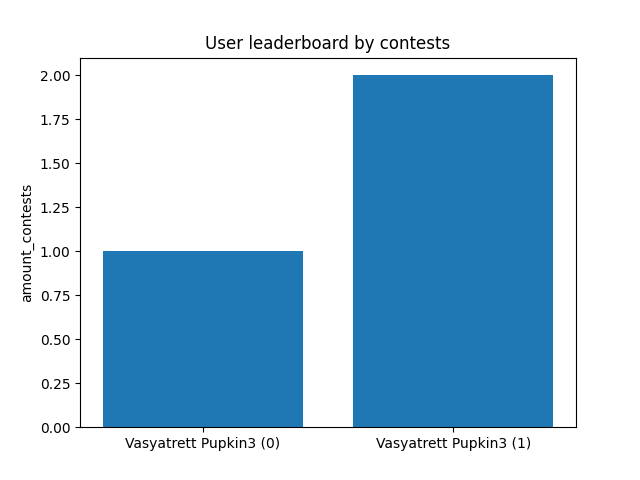
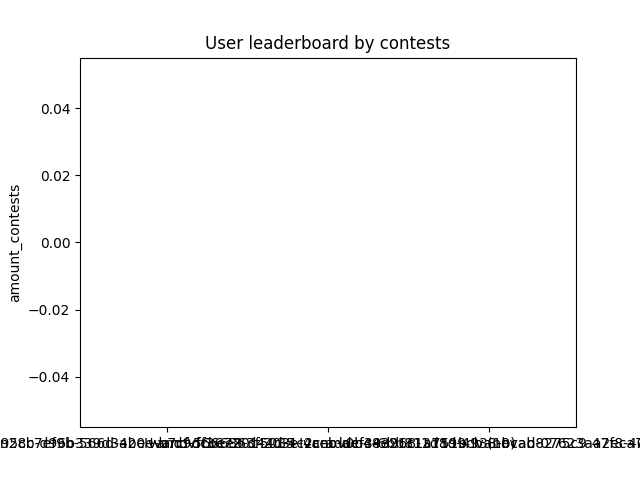
create user, get user, check for email validity

diff --git a/app/tests/test_contests.py b/app/tests/test_contests.py
@@ -7,8 +7,8 @@ def test_contest_create():
     n = 3
     users = []
     for _ in range(n):
-        payload = create_user_payload()
-        create_response = requests.post(f"{ENDPOINT}/users/create", json=payload)
+        payload_user = create_user_payload()
+        create_response = requests.post(f"{ENDPOINT}/users/create", json=payload_user)
         assert create_response.status_code == HTTPStatus.CREATED
         users.append(create_response.json()["id"])
     payload = create_contest_payload(users)
@@ -27,6 +27,8 @@ def test_contest_create():
     assert get_response.json()["name"] == payload["name"]
     assert get_response.json()["sport"] == payload["sport"]
     assert get_response.json()["participants"] == payload["participants"]
+    assert get_response.json()["status"] == "STARTED"
+    assert get_response.json()["winner"] == "null"
 
     delete_response = requests.delete(f"{ENDPOINT}/contests/{contest_id}")
     assert delete_response.status_code == HTTPStatus.OK
@@ -66,20 +68,14 @@ def test_contest_finish():
     create_response = requests.post(f"{ENDPOINT}/contests/create", json=payload)
 
     contest_id = create_response.json()["id"]
-    payload = {"winner" : 4}
+    payload = {"winner" : users[0]}
     post_response = requests.post(f"{ENDPOINT}/contests/{contest_id}/finish", json=payload)
     assert post_response.status_code == HTTPStatus.OK
     assert post_response.json()["status"] == "FINISHED"
-    assert post_response.json()["winner"] == 4
+    assert post_response.json()["winner"] == users[0]
 
     delete_response = requests.delete(f"{ENDPOINT}/contests/{contest_id}")
     assert delete_response.status_code == HTTPStatus.OK
-    assert delete_response.json()["name"] == post_response.json()["name"]
-    assert delete_response.json()["sport"] == post_response.json()["sport"]
-    assert delete_response.json()["participants"] == post_response.json()["participants"]
-    assert delete_response.json()["winner"] == post_response.json()["winner"]
-    assert delete_response.json()["status"] == post_response.json()["status"]
-    assert delete_response.json()["status_del"] == "deleted"
 
     for user_id in users:
         delete_response = requests.delete(f"{ENDPOINT}/users/{user_id}")

diff --git a/app/tests/test_users.py b/app/tests/test_users.py
@@ -71,11 +71,15 @@ def test_get_users_leaderboard():
         create_response = requests.post(f"{ENDPOINT}/users/create", json=payload)
         assert create_response.status_code == HTTPStatus.CREATED
         users.append(create_response.json()["id"])
-    payload = {"type": "list", "sort": "asc"}
-    get_response = requests.get(f"{ENDPOINT}/users/leaderboard", json=payload)
+    payload_list = {"type": "list", "sort": "asc"}
+    get_response = requests.get(f"{ENDPOINT}/users/leaderboard", json=payload_list)
     leaderboard = get_response.json()["users"]
     assert isinstance(leaderboard, list)
     assert len(leaderboard) == n
+
+    payload_graph = {"type": "graph"}
+    get_response = requests.get(f"{ENDPOINT}/users/leaderboard", json=payload_graph)
+    assert get_response.text == '<img src= "/static/users_leaderboard.png">'
 
     for user_id in users:
         delete_response = requests.delete(f"{ENDPOINT}/users/{user_id}")

diff --git a/app/models.py b/app/models.py
@@ -55,7 +55,7 @@ class Contest:
 
     @staticmethod
     def is_valid_id(contest_id):
-        return contest_id >= 0 and contest_id < len(CONTESTS)
+        return 0 <= contest_id < len(CONTESTS) and CONTESTS[contest_id].status_del != "deleted"
 
     def repr(self):
         return f'{self.id} {self.name} {self.sport}'
